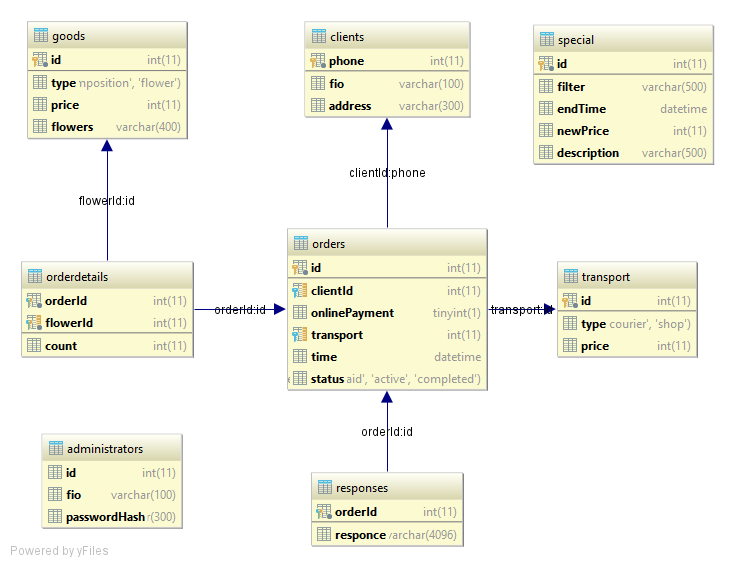
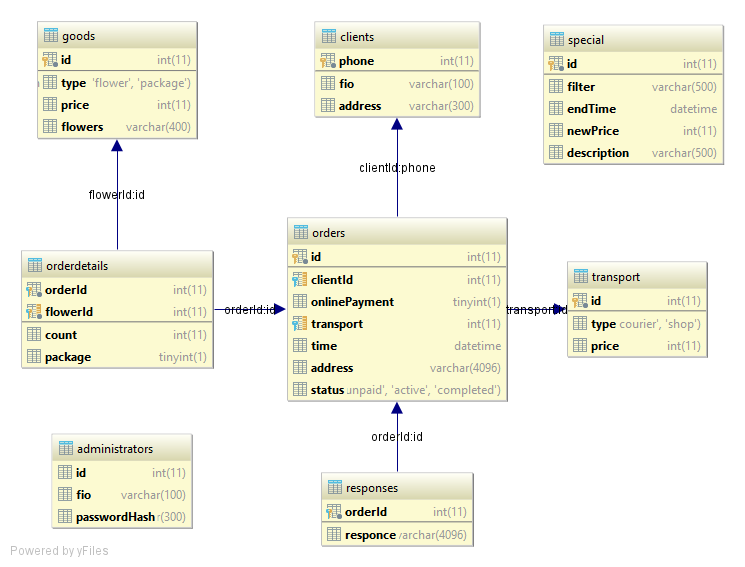
0.1.9

diff --git a/src/main/resources/static/pages/flowers.html b/src/main/resources/static/pages/flowers.html
@@ -29,6 +29,19 @@
                             <input type="text" name="phone" placeholder="Ваш номер телефона..." required/>
                             <button class="button" type="submit">Заказать</button>
                         </form>
+                        <form id="package" class="pop_form">
+                            <h3>Выбор упаковки</h3>
+                            <div class="radio">
+                                <label><input type="radio" name="package" checked="checked">Добавить упаковку</label>
+                            </div>
+                            <div class="radio">
+                                <label><input type="radio" name="package">Без упаковки</label>
+                            </div>
+                            <div>
+                                <button class="button" type="submit">В корзину</button>
+                                <button class="button" type="submit">Продолжить</button>
+                            </div>
+                        </form>
                     </div>
                     <div class="top_contacts"><i class="fa fa-mobile"></i> 8-906-286-61-60</div>
                     <div class="soc_buttons">
@@ -75,93 +88,62 @@
             <span class="logo">Цветы</span>
         </div>
         <div class="row">
-            <div class="col-md-12">
-                <ul class="list-group">
-                    <li class="list-group-item-info" style="margin-top: 10px;">
-                        <div class="row fa-align-center">
-                            <div class="col-md-2">
-                                <a href="/img/333.jpg" class="fancybox"><img
-                                        src="/img/333.jpg" class="img-fluid img-responsive img-rounded" style="height: 60px"/></a>
-                            </div>
-                            <div class="col-md-4">
-                                <h3>Розы</h3>
-                            </div>
-                            <div class="col-md-2 v-center">
-                                <h4 class="red-text"><i class="fa fa-money"></i> 100 p</h4>
-                            </div>
-                            <div class="col-md-2 v-center form-group">
-                                <input type="text" class="pull-right" placeholder="Количество"/>
-                            </div>
-                            <div class="col-md-2">
-                                <a class="btn btn-info">В корзину</a>
-                            </div>
-                        </div>
-                    </li>
+            <div class="col-md-4">
+                <div class="card card-cascade narrower" style="margin-bottom: 20px">
+                    <div class="view overlay hm-white-slight">
+                        <img src="/img/333.jpg" class="img-fluid img-responsive img-rounded" alt="">
+                        <a>
+                            <div class="mask waves-effect waves-light"></div>
+                        </a>
+                    </div>
+                    <div class="card-block" style="margin: 10px">
+                        <!--Title-->
+                        <h4 class="card-title">Розы</h4>
+                        <!--Text-->
+                        <h4 class="red-text"><i class="fa fa-money"></i> 100 p</h4>
+                        <p class="card-text"><input type="text" class="pull-right" placeholder="Количество"/></p>
+                    </div>
+                    <a href="#package" class="btn btn-info fancybox">В корзину</a>
+                </div>
+            </div>
 
-                    <li class="list-group-item-info" style="margin-top: 10px;">
-                        <div class="row fa-align-center">
-                            <div class="col-md-2">
-                                <img src="/img/1.jpg" class="img-fluid img-responsive img-rounded"
-                                     style="height: 60px"/>
-                            </div>
-                            <div class="col-md-4">
-                                <h3>Хрезантемы</h3>
-                            </div>
-                            <div class="col-md-2 v-center">
-                                <h4 class="red-text"><i class="fa fa-money"></i> 60 p</h4>
-                            </div>
-                            <div class="col-md-2 v-center form-group">
-                                <input type="text" class="pull-right" placeholder="Количество"/>
-                            </div>
-                            <div class="col-md-2">
-                                <a class="btn btn-info">В корзину</a>
-                            </div>
-                        </div>
-                    </li>
+            <div class="col-md-4">
+                <div class="card card-cascade narrower" style="margin-bottom: 20px">
+                    <div class="view overlay hm-white-slight">
+                        <img src="/img/3.jpg" class="img-fluid img-responsive img-rounded" alt="">
+                        <a>
+                            <div class="mask waves-effect waves-light"></div>
+                        </a>
+                    </div>
+                    <div class="card-block" style="margin: 10px">
+                        <!--Title-->
+                        <h4 class="card-title">Герберы</h4>
+                        <!--Text-->
+                        <h4 class="red-text"><i class="fa fa-money"></i> 80 p</h4>
+                        <p class="card-text"><input type="text" class="pull-right" placeholder="Количество"/></p>
+                    </div>
+                    <a class="btn btn-info">В корзину</a>
+                </div>
+            </div>
 
-                    <li class="list-group-item-info" style="margin-top: 10px;">
-                        <div class="row fa-align-center">
-                            <div class="col-md-2">
-                                <img src="/img/2.jpg" class="img-fluid img-responsive img-rounded"
-                                     style="height: 60px"/>
-                            </div>
-                            <div class="col-md-4">
-                                <h3>Герберы</h3>
-                            </div>
-                            <div class="col-md-2 v-center">
-                                <h4 class="red-text"><i class="fa fa-money"></i> 90 p</h4>
-                            </div>
-                            <div class="col-md-2 v-center form-group">
-                                <input type="text" class="pull-right" placeholder="Количество"/>
-                            </div>
-                            <div class="col-md-2">
-                                <a class="btn btn-info">В корзину</a>
-                            </div>
-                        </div>
-                    </li>
 
-                    <li class="list-group-item-info" style="margin-top: 10px;">
-                        <div class="row fa-align-center">
-                            <div class="col-md-2">
-                                <img src="/img/1000.jpg" class="img-fluid img-responsive img-rounded"
-                                     style="height: 60px"/>
-                            </div>
-                            <div class="col-md-4">
-                                <h3>Упаковка</h3>
-                            </div>
-                            <div class="col-md-2 v-center">
-                                <h4 class="red-text"><i class="fa fa-money"></i> 50 p</h4>
-                            </div>
-                            <div class="col-md-2 v-center form-group">
-                                <input type="text" class="pull-right" placeholder="Количество"/>
-                            </div>
-                            <div class="col-md-2">
-                                <a class="btn btn-info">В корзину</a>
-                            </div>
-                        </div>
-                    </li>
-
-                </ul>
+            <div class="col-md-4">
+                <div class="card card-cascade narrower" style="margin-bottom: 20px">
+                    <div class="view overlay hm-white-slight">
+                        <img src="/img/2.jpg" class="img-fluid img-responsive img-rounded" alt="">
+                        <a>
+                            <div class="mask waves-effect waves-light"></div>
+                        </a>
+                    </div>
+                    <div class="card-block" style="margin: 10px">
+                        <!--Title-->
+                        <h4 class="card-title">ХрИзантемы</h4>
+                        <!--Text-->
+                        <h4 class="red-text"><i class="fa fa-money"></i> 60 p</h4>
+                        <p class="card-text"><input type="text" class="pull-right" placeholder="Количество"/></p>
+                    </div>
+                    <a class="btn btn-info">В корзину</a>
+                </div>
             </div>
         </div>
     </div>
